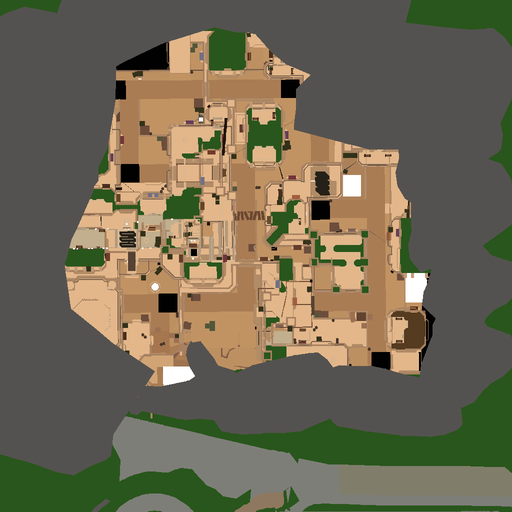
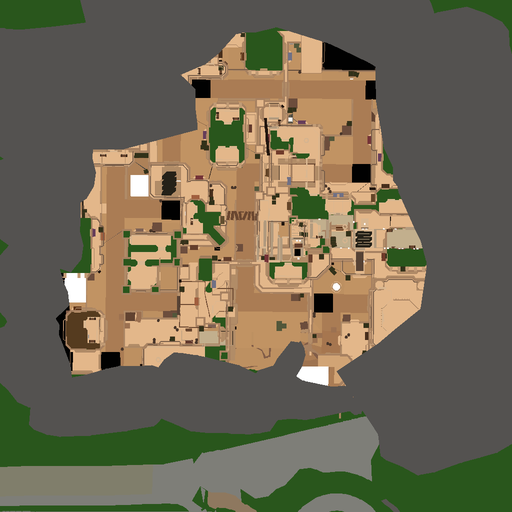
fix(minimap): restore mirrored track projection (TX - lx) to fix player positioning outside paintball

diff --git a/src/ui.tsx b/src/ui.tsx
@@ -81,8 +81,8 @@ const uiComponent = () => {
         const pb = ps.inGame
         const img = pb ? 'images/paintball_minimap.png' : 'images/minimap.png'
         // Ventanas world-XZ EXACTAS con las que se generaron las imágenes (impreso por
-        // make_*minimap.py). Track: X[-379.0,816.0] Z[-423.6,771.3]. Paintball: -280..120 / 200..600.
-        const xmin = pb ? -280.0 : -379.0, xmax = pb ? 120.0 : 816.0
+        // make_*minimap.py). Track: X[-992.0,203.0] Z[-423.6,771.3]. Paintball: -280..120 / 200..600.
+        const xmin = pb ? -280.0 : -992.0, xmax = pb ? 120.0 : 203.0
         const zmin = pb ? 200.0 : -423.6, zmax = pb ? 600.0 : 771.3
         const wx = RaceState.isOccupied ? RaceState.kartPositionX : (playerTransform ? playerTransform.position.x : xmin)
         const wz = RaceState.isOccupied ? RaceState.kartPositionZ : (playerTransform ? playerTransform.position.z : zmin)

diff --git a/tools/make_minimap.py b/tools/make_minimap.py
@@ -10,9 +10,9 @@ spec = importlib.util.spec_from_file_location('g', 'tools/glb_recenter.py')
 g = importlib.util.module_from_spec(spec); spec.loader.exec_module(g)
 
 # Transform del track entity en el mundo (idéntica para lake.glb): pos (-88, _, 38.19),
-# scale 1, identidad, y DCL espeja X → world_x = -88 + lx, world_z = 38.19 + lz
+# scale 1, identidad, y DCL espeja X → world_x = -88 - lx, world_z = 38.19 + lz
 TX, TZ = -88.0, 38.19
-def to_world(lx, lz): return (TX + lx, TZ + lz)
+def to_world(lx, lz): return (TX - lx, TZ + lz)
 
 CT = {5120: ('b', 1), 5121: ('B', 1), 5122: ('h', 2), 5123: ('H', 2), 5125: ('I', 4), 5126: ('f', 4)}
 

diff --git a/tools/make_paintball_minimap.py b/tools/make_paintball_minimap.py
@@ -8,7 +8,7 @@ g = importlib.util.module_from_spec(spec); spec.loader.exec_module(g)
 
 # Transform del track entity en el mundo
 TX, TZ = -88.0, 38.19
-def to_world(lx, lz): return (TX + lx, TZ + lz)
+def to_world(lx, lz): return (TX - lx, TZ + lz)
 
 CT = {5120: ('b', 1), 5121: ('B', 1), 5122: ('h', 2), 5123: ('H', 2), 5125: ('I', 4), 5126: ('f', 4)}
 
